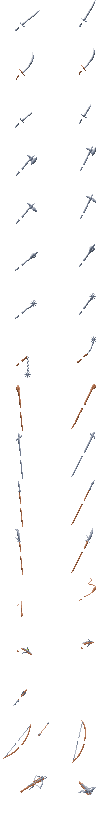
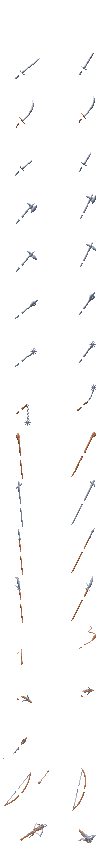
Fix shields not transparent added a style to more clearly see the background, replaced canvas with ImageView

diff --git a/src/main/resources/style.css b/src/main/resources/style.css
@@ -1,0 +1,5 @@
+.panels {
+    -fx-border-color: black;
+    -fx-background-color: dimgray;
+}
+

diff --git a/src/main/java/org/example/IconMaker.java b/src/main/java/org/example/IconMaker.java
@@ -3,20 +3,15 @@ package org.example;
 import javafx.application.Application;
 import javafx.embed.swing.SwingFXUtils;
 import javafx.scene.Scene;
-import javafx.scene.canvas.Canvas;
-import javafx.scene.canvas.GraphicsContext;
 import javafx.scene.control.Button;
-import javafx.scene.image.Image;
+import javafx.scene.image.ImageView;
 import javafx.scene.layout.BorderPane;
 import javafx.scene.layout.HBox;
 import javafx.stage.Stage;
 
 import javax.imageio.ImageIO;
-import javax.security.auth.login.AppConfigurationEntry;
 import java.awt.*;
 import java.awt.image.BufferedImage;
-import java.io.File;
-import java.io.IOException;
 import java.util.Arrays;
 import java.util.List;
 import java.util.Objects;
@@ -30,8 +25,6 @@ import java.util.Objects;
 public class IconMaker extends Application {
 
     private Stage stage;
-
-    private Canvas canvas;
 
     private int bodyIndex = 0;
     private BufferedImage bodyImage;
@@ -64,26 +57,30 @@ public class IconMaker extends Application {
     int color5 = 0;        //metal color
     int color5max = 9;
 
+    ImageView icon;
+
     @Override
     public void start(Stage stage) throws Exception {
         this.stage = stage;
 
         BorderPane root = new BorderPane();
 
-        canvas = new Canvas(96, 48);
-        GraphicsContext gc = canvas.getGraphicsContext2D();
-
         bodyImage = ImageIO.read(Objects.requireNonNull(IconMaker.class.getResourceAsStream("/parts/cm_Clothes.png")));
         weaponImage = ImageIO.read(Objects.requireNonNull(IconMaker.class.getResourceAsStream("/parts/cm_Arms.png")));
         headImage = ImageIO.read(Objects.requireNonNull(IconMaker.class.getResourceAsStream("/parts/cm_Faces.png")));
-        shieldImage = ImageIO.read(Objects.requireNonNull(IconMaker.class.getResourceAsStream("/parts/cm_Shields-orig.png")));
+        shieldImage = ImageIO.read(Objects.requireNonNull(IconMaker.class.getResourceAsStream("/parts/cm_Shields.png")));
+
+        icon = new ImageView();
+        icon.setOpacity(1); // still white background
+        icon.setFitHeight(PART_HEIGHT * 2);
+        icon.setFitWidth(PART_WIDTH * 2);
+        icon.setPreserveRatio(true);
+        icon.setSmooth(false);
+        icon.setCache(true);
 
         refreshImage();
 
-        HBox hbox = new HBox();
-        hbox.getChildren().addAll(canvas);
-        root.setCenter(canvas);
-
+        root.setCenter(icon);
 
         HBox buttons = new HBox();
         buttons.setSpacing(10);
@@ -137,8 +134,10 @@ public class IconMaker extends Application {
         buttons.getChildren().addAll(new Button("Color 2"));
         buttons.getChildren().addAll(new Button("Metal"));
 
+        root.getStyleClass().add("panels");
         root.setBottom(buttons);
         Scene scene = new Scene(root, 800, 600);
+        scene.getStylesheets().add("/style.css");
         stage.setScene(scene);
         stage.setTitle("IconMaker");
         stage.show();
@@ -153,8 +152,9 @@ public class IconMaker extends Application {
         BufferedImage weapon = getImage(weaponIndex, weaponImage);
 
         composedImage = composeImage(shield, body, weapon, head);
-        Image fxImage = SwingFXUtils.toFXImage(composedImage, null);
-        canvas.getGraphicsContext2D().drawImage(fxImage, 0, 0);
+
+        java.awt.Image image1 = composedImage.getScaledInstance(PART_WIDTH * 2, PART_HEIGHT * 2, java.awt.Image.SCALE_DEFAULT);
+        icon.setImage(SwingFXUtils.toFXImage(toBufferedImage(image1), null));
     }
 
 
@@ -290,9 +290,8 @@ public class IconMaker extends Application {
             }
         }
 
-        Image fxImage = SwingFXUtils.toFXImage(composedImage, null);
-        canvas.getGraphicsContext2D().drawImage(fxImage, 0, 0);
-
+        java.awt.Image image1 = composedImage.getScaledInstance(PART_WIDTH * 2, PART_HEIGHT * 2, java.awt.Image.SCALE_DEFAULT);
+        icon.setImage(SwingFXUtils.toFXImage(toBufferedImage(image1), null));
     }
 
 
@@ -308,5 +307,23 @@ public class IconMaker extends Application {
         }
         g.dispose();
         return im;
+    }
+
+
+    public static BufferedImage toBufferedImage(java.awt.Image img) {
+        if (img instanceof BufferedImage) {
+            return (BufferedImage) img;
+        }
+
+        // Create a buffered image with transparency
+        BufferedImage bimage = new BufferedImage(img.getWidth(null), img.getHeight(null), BufferedImage.TYPE_INT_ARGB);
+
+        // Draw the image on to the buffered image
+        Graphics2D bGr = bimage.createGraphics();
+        bGr.drawImage(img, 0, 0, null);
+        bGr.dispose();
+
+        // Return the buffered image
+        return bimage;
     }
 }
